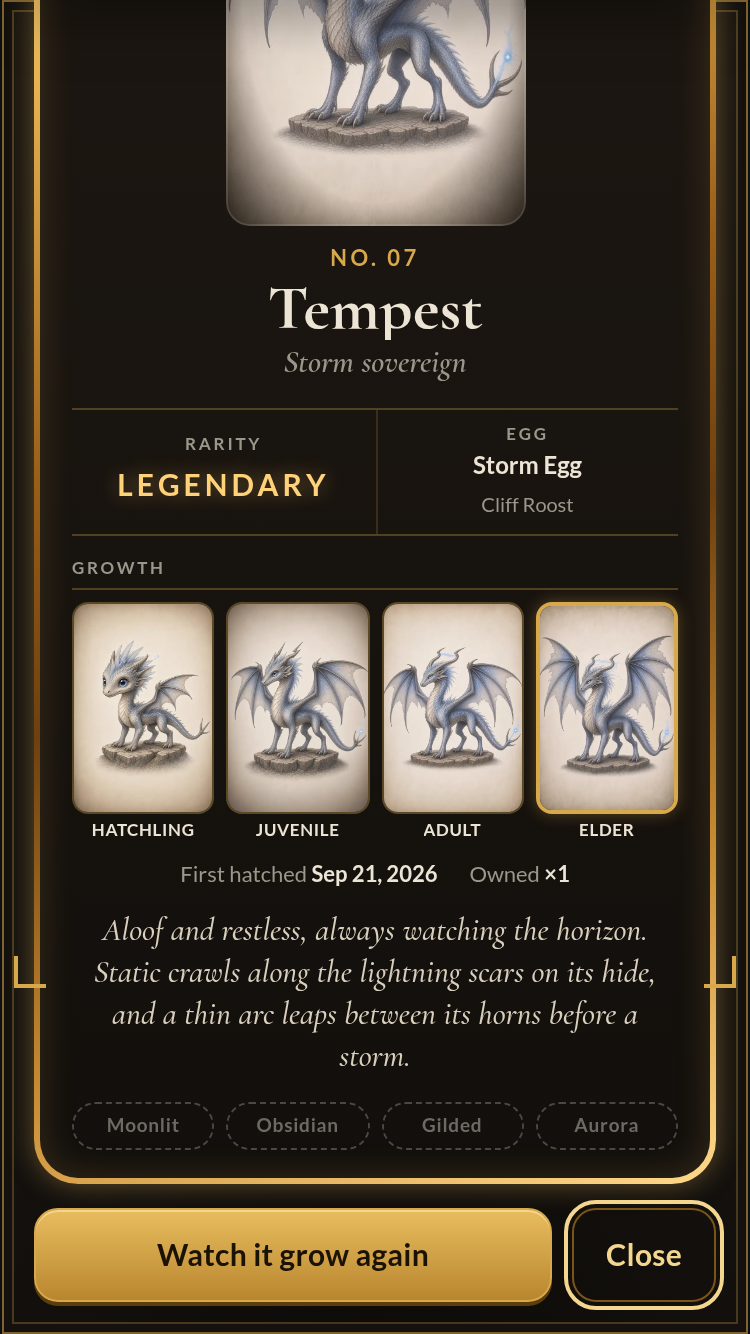
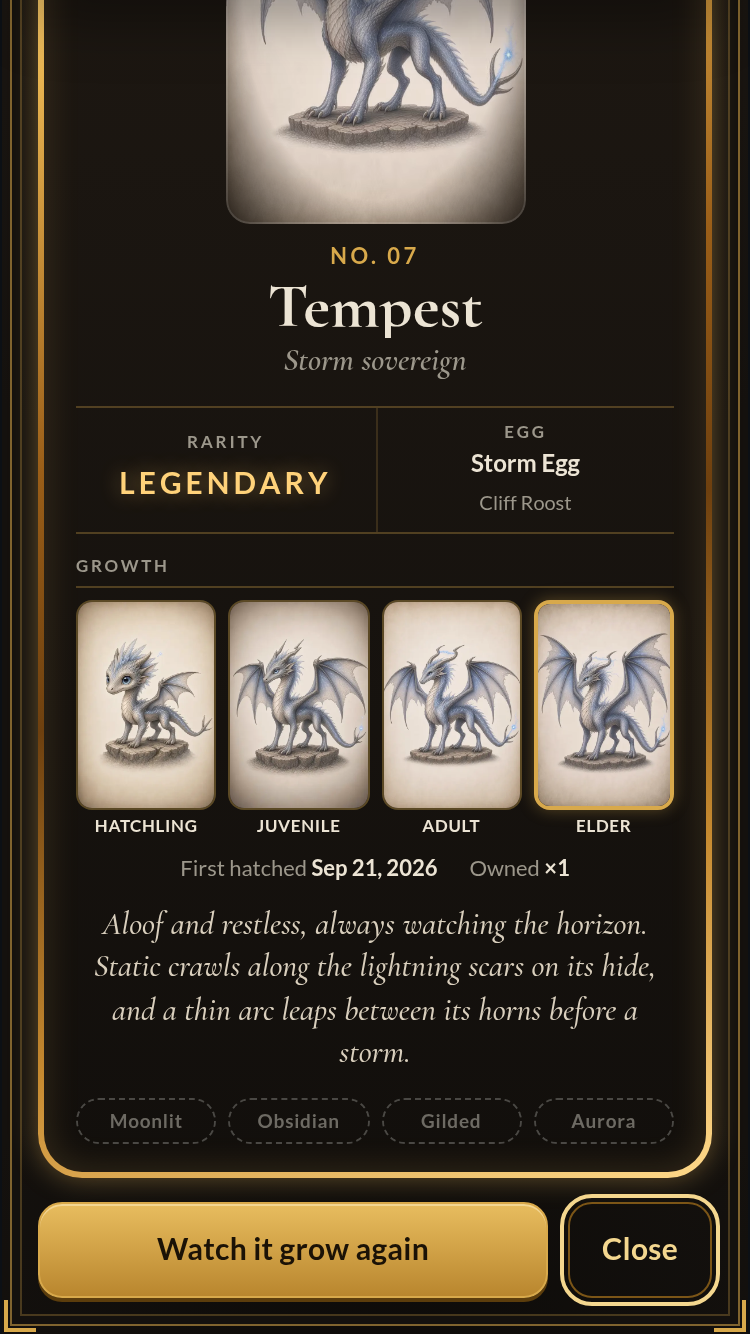
fix: frame the detail sheet so the rule and brackets clear the buttons
Put the double rule and corner brackets on a padded frame around the card, and open the sheet at the top instead of scrolled to Close.

diff --git a/index.html b/index.html
@@ -298,7 +298,8 @@ button:focus-visible,input:focus-visible,a:focus-visible{outline:2px solid var(-
 .rf-wrap.rf-mut{--rf-fill:linear-gradient(180deg,#26283a,#0c1015)}
 
 /* ---------- bestiary (handoff/feature-bestiary.md §6.0, mockups.html) ---------- */
-#bestiary.bst-journal,#dexOv.bst-journal{background:radial-gradient(120% 70% at 50% 0%,#211b15 0%,transparent 60%),radial-gradient(90% 60% at 50% 110%,#0c0a08 0%,transparent 70%),#14110e;box-shadow:inset 0 0 0 1px rgba(216,169,75,.55),inset 0 0 0 5px #14110e,inset 0 0 0 6px rgba(216,169,75,.28)}
+#bestiary.bst-journal,#dexOv.bst-journal{background:radial-gradient(120% 70% at 50% 0%,#211b15 0%,transparent 60%),radial-gradient(90% 60% at 50% 110%,#0c0a08 0%,transparent 70%),#14110e}
+#bestiary.bst-journal{box-shadow:inset 0 0 0 1px rgba(216,169,75,.55),inset 0 0 0 5px #14110e,inset 0 0 0 6px rgba(216,169,75,.28)}
 #bestiary{position:relative;overflow:hidden;display:flex;flex-direction:column;color:#ece4d4}
 .bst-scroll{flex:1;min-height:0;overflow-y:auto}
 .bst-frame{position:relative;min-height:100%}
@@ -345,8 +346,13 @@ button.bx:active{transform:scale(.96)}
 #bestiary button.bx.rf{--rf-fill:linear-gradient(#1a1612,#1a1612)}
 #bestiary button.bx.rf-mut{--rf-fill:linear-gradient(180deg,#26283a,#1a1612)}
 #bestiary .bx.rf-none{--rf-fill:linear-gradient(#1a1612,#1a1612)}
-#dexOv{align-items:flex-start;overflow-y:auto;backdrop-filter:none}
-.dex-card{position:relative;margin-block:auto;width:100%;max-width:360px}
+#dexOv{align-items:flex-start;overflow-y:auto;padding:4px;backdrop-filter:none}
+.dex-frame{position:relative;box-sizing:border-box;width:100%;margin-block:auto;padding:14px;display:flex;flex-direction:column;align-items:center;box-shadow:inset 0 0 0 1px rgba(216,169,75,.55),inset 0 0 0 5px #14110e,inset 0 0 0 6px rgba(216,169,75,.28)}
+.dex-frame .bst-br.tl{top:-3px;left:-3px}
+.dex-frame .bst-br.tr{top:-3px;right:-3px}
+.dex-frame .bst-br.bl{bottom:-3px;left:-3px}
+.dex-frame .bst-br.brb{bottom:-3px;right:-3px}
+.dex-card{width:100%;max-width:360px}
 .dexsheet.dex-dragon .stats{grid-template-columns:1fr 1fr}
 .dexsheet.dex-dragon .plate,.dexsheet.dex-dragon .plate .dart{width:150px}
 .dexsheet{--rf-r:22px;--rf-fill:linear-gradient(180deg,#1f1913,#120f0c);padding:16px 16px 14px;text-align:center}
@@ -1657,8 +1663,9 @@ function openDex(k){
   const odds = m ? `<div class="facts"><span>Odds per hatch <b>${pct(RARITY[r].mut / MUT_KEYS.length)}</b></span></div>` : "";
   dexFrom = k;
   const ov = $("#dexOv");
-  ov.innerHTML = `<div class="card-wrap dex-card" role="dialog" aria-modal="true" aria-labelledby="dexName">
+  ov.innerHTML = `<div class="dex-frame">
       <div class="bst-pins" aria-hidden="true"><i class="bst-br tl"></i><i class="bst-br tr"></i><i class="bst-br bl"></i><i class="bst-br brb"></i></div>
+      <div class="card-wrap dex-card" role="dialog" aria-modal="true" aria-labelledby="dexName">
       <div class="${rfcls(d)} dexsheet${m ? "" : " dex-dragon"}"${m ? ` style="${rfd(0)}"` : ""}>
         <div class="brand"><span>Bestiary</span><span>${dexFound()} of ${DEX_KEYS.length}</span></div>
         <div class="plate">${dragonArt(d, {live:true, stage:e.top})}</div>
@@ -1674,10 +1681,10 @@ function openDex(k){
         <div class="dexchips">${chips}</div>
       </div>
       <div class="card-actions" id="dexActions"><button class="btn ghost" data-act="close-dex">Close</button></div>
-    </div>`;
+    </div></div>`;
   ov.hidden = false;
+  ov.querySelector("[data-act=close-dex]").focus({preventScroll:true});
   ov.scrollTop = 0;
-  ov.querySelector("[data-act=close-dex]").focus();
   const best = S.dragons.filter(x => dexKeys(x).includes(k)).sort((a, b) => (b.xp || 0) - (a.xp || 0))[0];
   const si = best ? stageIdx(best) : 0;
   if (best && si >= 1 && REVEAL_KEY[si]){
